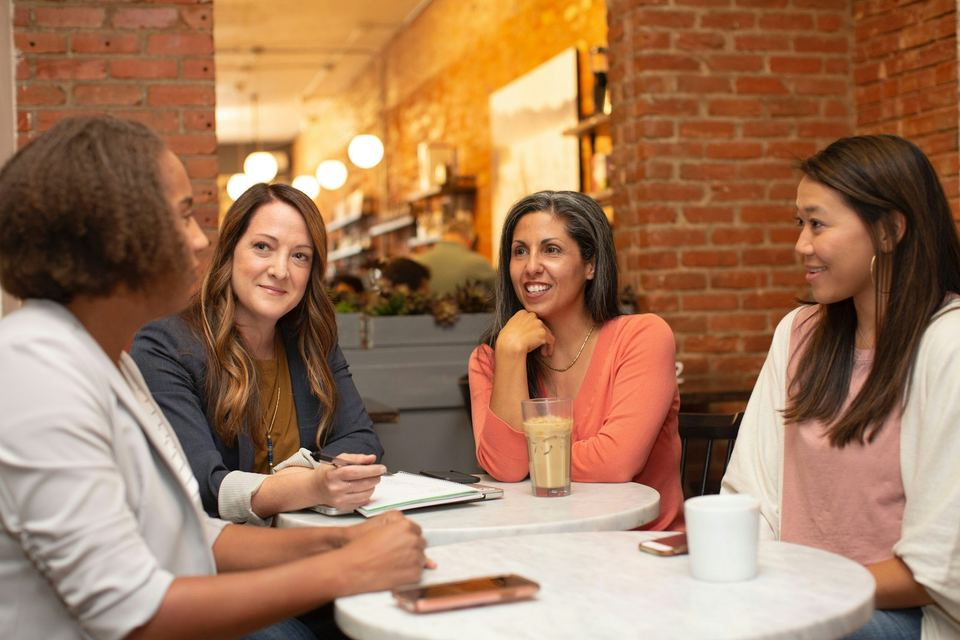
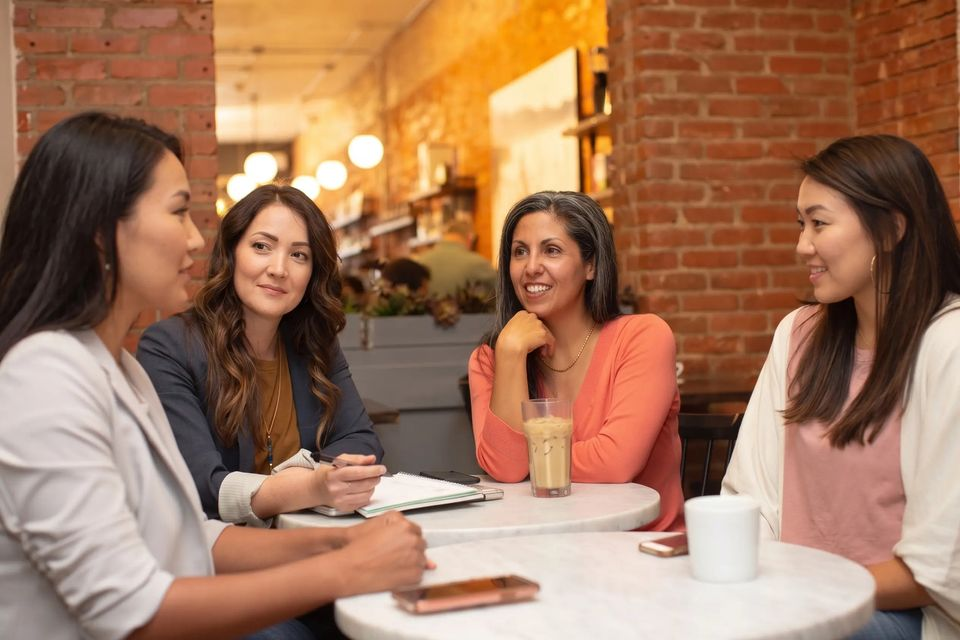
Снимки заказчика в «IS QOLDAY» и «Как мы работаем»
Пропорции совпали с указанными в credits (4:3 и 3:2), кадрировать
не потребовалось. Оба отдаются через <picture>: WebP 36 и 44 КБ
против JPEG 72 и 77 КБ.

Имена исходников (Gemini_Generated_Image_*) показывают, что снимки
сгенерированы. Это снимает вопрос о согласии на публикацию, но
расходится с требованием брифа о реальных фотографиях — отмечено
в PHOTO-CREDITS как решение для заказчика.

diff --git a/index.html b/index.html
@@ -224,6 +224,7 @@ ul,ol{list-style:none;padding:0}
 
 /* ---------- фотоблоки ---------- */
 .shot{margin:0 0 1.25rem;overflow:hidden;background:var(--surface)}
+.shot picture{display:block}
 .shot img{width:100%;height:auto;display:block}
 .shot.wide{margin:0;max-width:26rem;width:100%}
 .rc .shot{background:rgba(255,255,255,.06);border:1px solid rgba(255,255,255,.14)}
@@ -552,7 +553,10 @@ html.rv [data-rv].in{opacity:1;transform:none}
           <p class="lead" style="margin-top:1rem">Пять видов профессиональных консультаций для предпринимательниц — в одном месте и по одной заявке.</p>
         </div>
         <figure class="shot" data-rv>
-          <img src="assets/photo-resource.jpg" alt="Разбор рабочих материалов на консультации" width="960" height="720" loading="lazy" />
+          <picture>
+            <source srcset="assets/photo-resource.webp" type="image/webp" />
+            <img src="assets/photo-resource.jpg" alt="Консультация в женском ресурсном центре «IS QOLDAY»" width="960" height="720" loading="lazy" />
+          </picture>
         </figure>
       </div>
       <ul class="rcgrid">
@@ -574,7 +578,10 @@ html.rv [data-rv].in{opacity:1;transform:none}
           <h2 class="h2">Как мы работаем</h2>
         </div>
         <figure class="shot wide" data-rv>
-          <img src="assets/photo-network.jpg" alt="Деловая встреча участниц Совета" width="960" height="640" loading="lazy" />
+          <picture>
+            <source srcset="assets/photo-network.webp" type="image/webp" />
+            <img src="assets/photo-network.jpg" alt="Деловая встреча участниц Совета" width="960" height="640" loading="lazy" />
+          </picture>
         </figure>
       </div>
       <div class="flow-grid">

diff --git a/assets/PHOTO-CREDITS.md b/assets/PHOTO-CREDITS.md
@@ -1,38 +1,49 @@
 # Фотографии
 
-Все снимки — с Unsplash, под [Unsplash License](https://unsplash.com/license):
-разрешено коммерческое использование, указание авторства не требуется.
-Авторы перечислены из уважения к работе, а не по обязанности.
+| Файл | Сюжет | Происхождение |
+|---|---|---|
+| `photo-hero` | Совещание за столом переговоров, ч/б | от заказчика |
+| `photo-resource` | Презентация у доски с материалами | от заказчика, **сгенерировано Gemini** |
+| `photo-network` | Встреча за столиком | от заказчика, **сгенерировано Gemini** |
+| `photo-about.jpg` | Консультация за рабочим столом | Unsplash, Amy Hirschi (`photo-1551836022-4c4c79ecde51`) |
 
-| Файл | Сюжет | Автор | Оригинал |
+Каждый снимок, кроме `photo-about`, отдаётся в двух форматах через `<picture>`:
+WebP основным, JPEG фолбэком. WebP примерно вдвое легче.
+
+| Файл | Размер | WebP | JPEG |
 |---|---|---|---|
-| `photo-hero.webp` + `.jpg` | Совещание Совета, ч/б | **предоставлено заказчиком** | — |
-| `photo-about.jpg` | Консультация за рабочим столом | Amy Hirschi | `photo-1551836022-4c4c79ecde51` |
-| `photo-resource.jpg` | Разбор материалов у доски | Unsplash | `photo-1681949215173-fe0d15c790c1` |
-| `photo-network.jpg` | Деловая встреча группы | Unsplash | `photo-1590650046871-92c887180603` |
+| `photo-hero` | 1920×1080 | 88 КБ | 182 КБ |
+| `photo-resource` | 960×720 | 36 КБ | 72 КБ |
+| `photo-network` | 960×640 | 44 КБ | 77 КБ |
 
-Прямой адрес любого оригинала: `https://images.unsplash.com/<id>`
+## ⚠ Это сгенерированные изображения, а не фотографии Совета
 
-## ⚠ По hero нужно подтверждение заказчика
+Два файла пришли с именами `Gemini_Generated_Image_*`, третий (`photo-hero`) из той же серии
+по стилю. То есть на снимках изображены несуществующие люди.
 
-`photo-hero` заменён на снимок от заказчика (2730×1536, уменьшен до 1920×1080).
-Перед публичным запуском надо выяснить:
+**Что это снимает:** вопроса о согласии на публикацию нет — реальных людей на фото нет.
 
-1. **Это реальное фото Совета или сгенерированное?** От ответа зависит, можно ли подписывать
-   его как фотографию мероприятия.
-2. **Если люди реальные — есть ли их согласие на публикацию?** На снимке различимые лица;
-   для размещения на публичном сайте требуется согласие изображённых.
+**Что это ставит:** бриф просит «реальные деловые фотографии, без рекламной глянцевой стилистики».
+Сгенерированные кадры этому требованию не отвечают буквально. Как иллюстративная заглушка на время
+запуска — рабочее решение. Но:
 
-Отдаётся в двух форматах: WebP (88 КБ) основной, JPEG (182 КБ) фолбэком через `<picture>`.
+- не подписывать их как фотографии конкретных мероприятий, участниц или офиса Совета;
+- заменить на настоящие снимки, когда они появятся, — это решение заказчика, не техническое.
 
-## Остальные снимки — временные
+Для официальной организации, которая строит доверие и репутацию, расхождение между «фото на сайте»
+и «фото с мероприятий» рано или поздно замечают. Стоит проговорить с заказчиком осознанно.
 
-Бриф требует **реальные деловые фотографии** Совета — мероприятий, команды, офиса.
-Как только заказчик их пришлёт, эти файлы заменяются один в один: имена и пропорции
-подобраны так, чтобы разметку трогать не пришлось. Hero уже заменён.
+## Замена на реальные снимки
 
-| Файл | Требуемые пропорции |
-|---|---|
-| `photo-about.jpg` | 4:3, минимум 960×720 |
-| `photo-resource.jpg` | 4:3, минимум 960×720 |
-| `photo-network.jpg` | 3:2, минимум 960×640 |
+Имена и пропорции подобраны так, чтобы разметку трогать не пришлось — достаточно положить
+файлы поверх с теми же именами.
+
+| Файл | Пропорции | Минимум |
+|---|---|---|
+| `photo-hero` | 16:9 | 1920×1080 |
+| `photo-resource` | 4:3 | 960×720 |
+| `photo-network` | 3:2 | 960×640 |
+| `photo-about` | 4:3 | 960×720 |
+
+`photo-about` пока единственный со стока Unsplash — по [Unsplash License](https://unsplash.com/license)
+коммерческое использование разрешено, указание авторства не требуется.

diff --git a/PROGRESS.md b/PROGRESS.md
@@ -76,8 +76,13 @@
   WebP 88 КБ основным, JPEG 182 КБ фолбэком — hero это самый тяжёлый элемент страницы.
   Контраст под текстом померен на рендере со скрытым текстом (иначе метрика попадает в сами буквы):
   среднее 10.04:1, в самой светлой точке 5.30:1 — выше нормы.
-  **Открыто:** реальный это снимок Совета или сгенерированный, и есть ли согласие изображённых
-  на публикацию — на фото различимые лица. См. `assets/PHOTO-CREDITS.md`.
+  **Вопрос закрыт:** снимки сгенерированы. Заказчик прислал ещё два файла с именами
+  `Gemini_Generated_Image_*` — hero из той же серии по стилю. Согласие на публикацию не нужно
+  (реальных людей нет), но бриф просит «реальные деловые фотографии»: как заглушка годится,
+  подписывать как фото мероприятий Совета — нет. Подробности в `assets/PHOTO-CREDITS.md`.
+- **Заменены снимки в «IS QOLDAY» и «Как мы работаем»** на присланные заказчиком.
+  Пропорции совпали с указанными в credits один в один (1.33 и 1.50), кадрировать не пришлось.
+  Оба тоже через `<picture>`: WebP 36 и 44 КБ против JPEG 72 и 77 КБ.
 - **«IS QOLDAY» больше не рвётся по строкам.** Название рвалось на «IS» и «QOLDAY»»;
   обёрнуто в `.nb{white-space:nowrap}` в трёх местах. На 360px занимает 167px из 320 — не переполняет.
 
